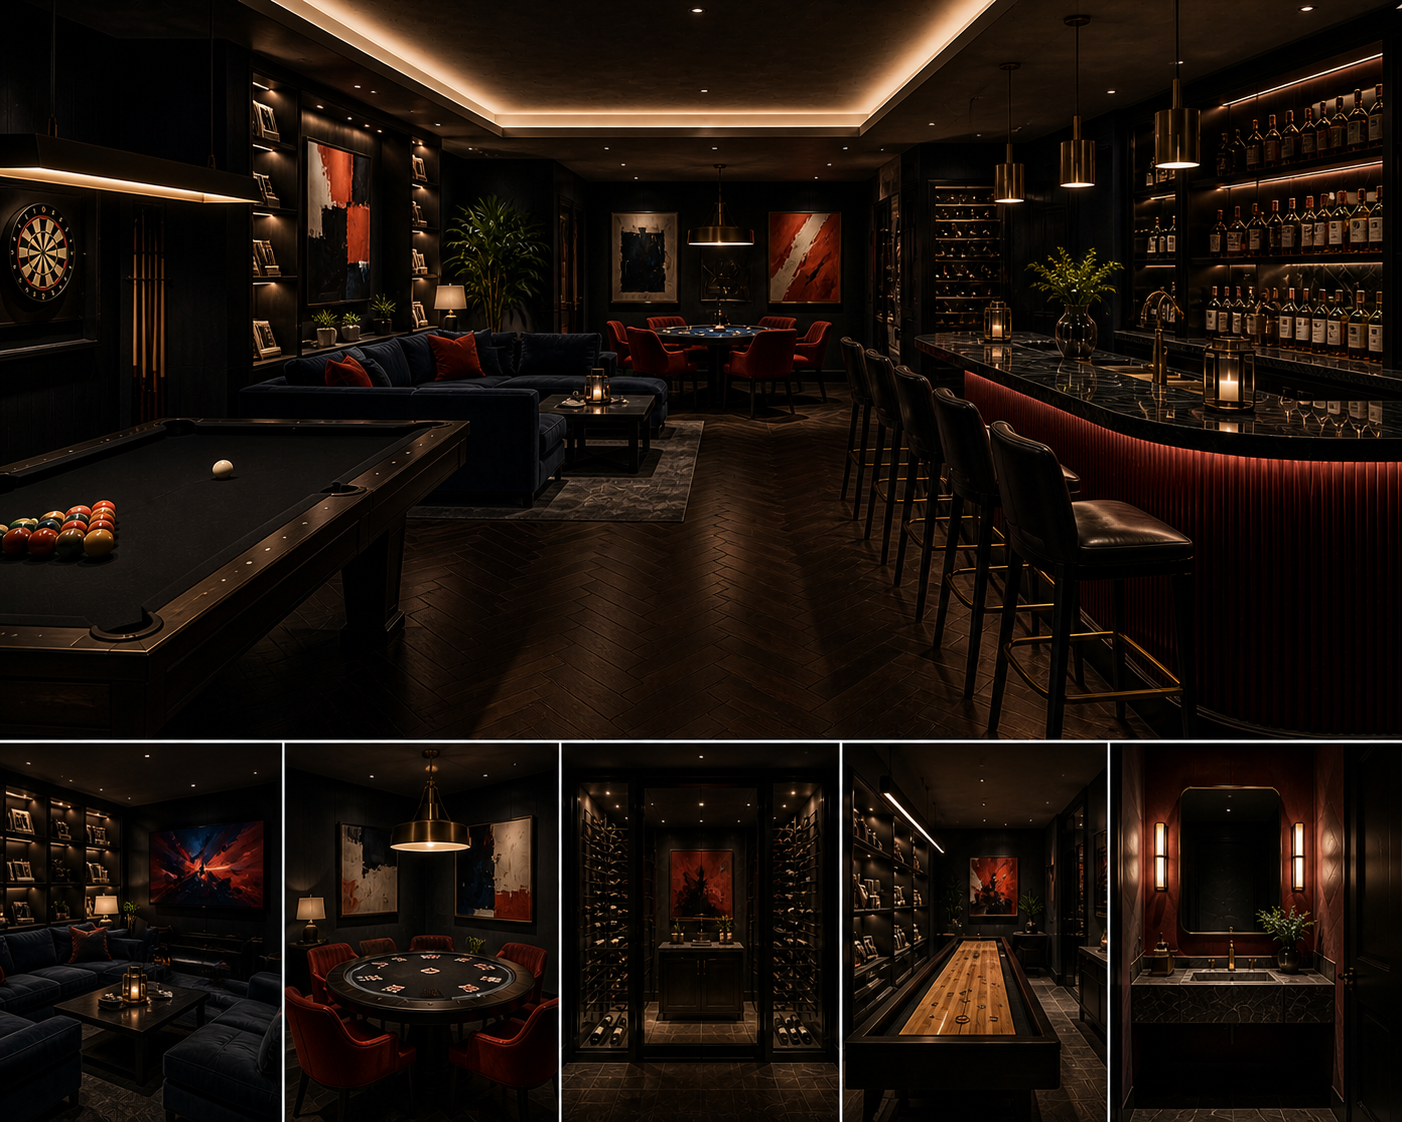
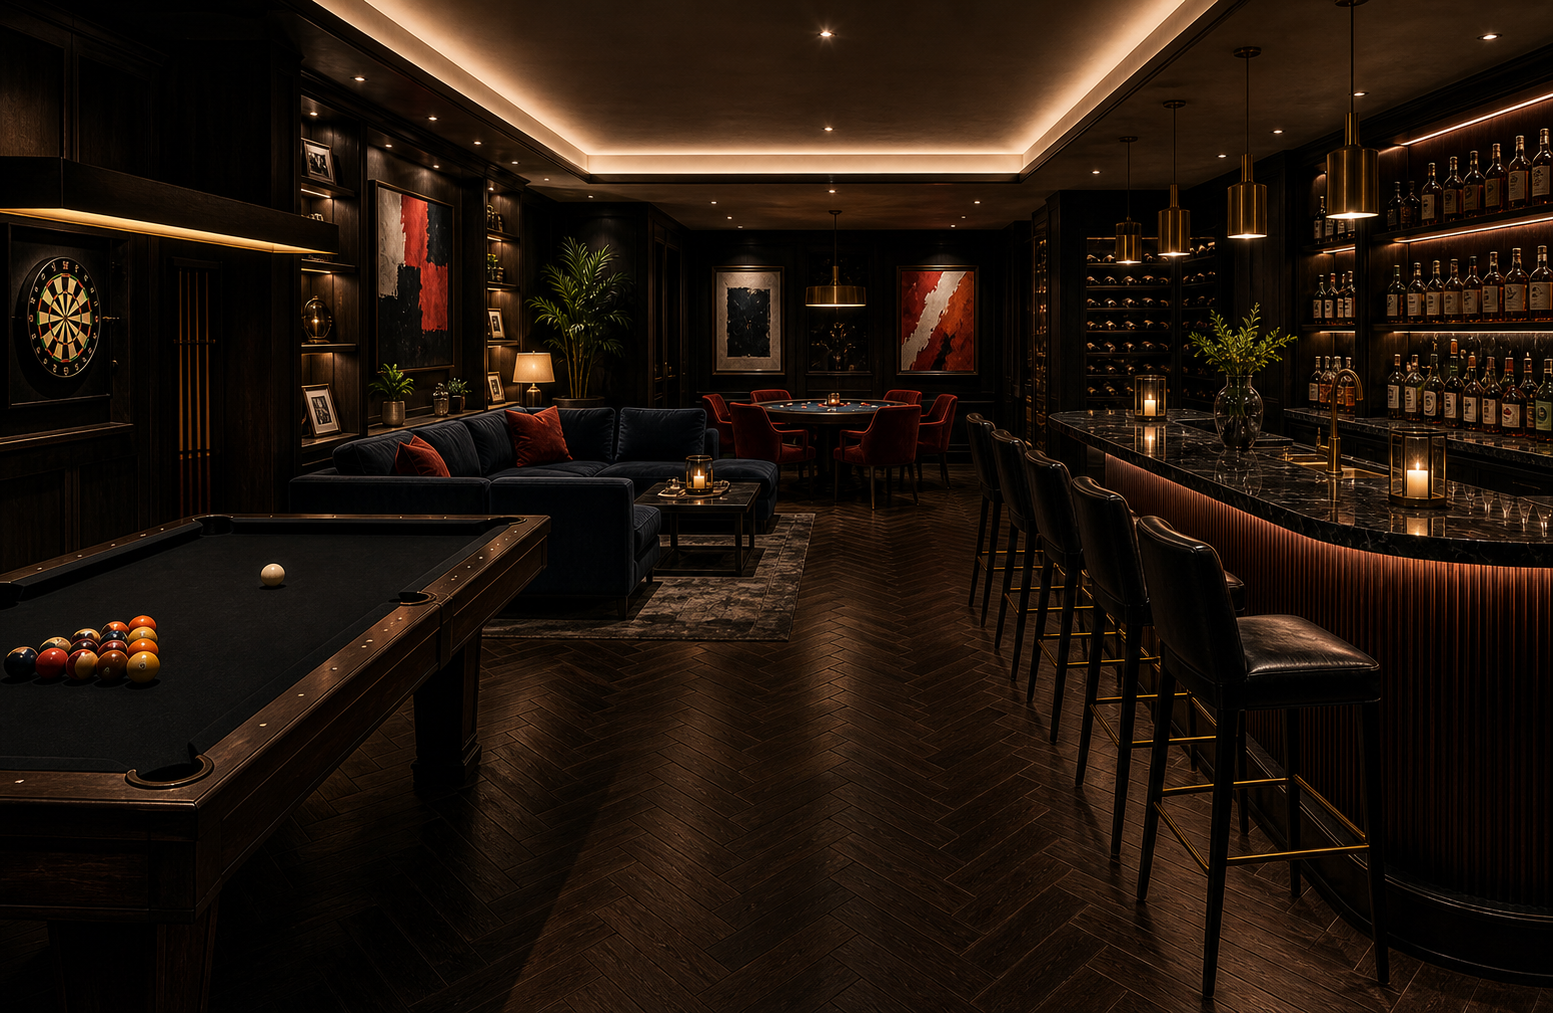
Add Bar Games room gallery

diff --git a/src/app.css b/src/app.css
@@ -299,6 +299,48 @@ button {
   line-height: 1.55;
 }
 
+.room-gallery {
+  position: absolute;
+  left: 26px;
+  right: 26px;
+  bottom: 188px;
+  display: grid;
+  grid-template-columns: repeat(3, minmax(0, 1fr));
+  gap: 8px;
+  max-width: 540px;
+}
+
+.room-gallery button {
+  min-width: 0;
+  padding: 5px;
+  border-radius: 8px;
+  border: 1px solid rgba(255, 255, 255, 0.16);
+  background: rgba(18, 14, 11, 0.62);
+  color: #fff8ee;
+  text-align: left;
+  backdrop-filter: blur(12px);
+}
+
+.room-gallery button.active {
+  border-color: #d7bc82;
+  background: rgba(18, 14, 11, 0.82);
+}
+
+.room-gallery img {
+  width: 100%;
+  aspect-ratio: 16 / 10;
+  object-fit: cover;
+  display: block;
+  border-radius: 5px;
+}
+
+.room-gallery span {
+  display: block;
+  padding: 6px 4px 2px;
+  font-size: 12px;
+  font-weight: 700;
+}
+
 .context-panel {
   display: grid;
   gap: 14px;
@@ -973,6 +1015,13 @@ button {
     right: 12px;
     bottom: 12px;
     padding: 16px;
+  }
+
+  .room-gallery {
+    left: 12px;
+    right: 12px;
+    bottom: 176px;
+    max-width: none;
   }
 
   .movement-grid,

diff --git a/src/App.jsx b/src/App.jsx
@@ -17,7 +17,7 @@ import {
   UsersRound,
   X
 } from "lucide-react";
-import { HOUSE_DATA, FLOOR_PLAN_SHAPES } from "../data.js";
+import { HOUSE_DATA, FLOOR_PLAN_SHAPES, ROOM_GALLERIES } from "../data.js";
 
 const tabs = [
   ["explore", "Explore", Home],
@@ -178,17 +178,39 @@ function App() {
 
 function ExploreView({ floor, room, roomOps, connections, mode, openRoom, openImage }) {
   const [id, name, description, image] = room;
+  const gallery = ROOM_GALLERIES[`${floor.id}:${id}`] || [{ label: "Room view", src: image }];
+  const [activeImage, setActiveImage] = useState(gallery[0]);
+
+  useEffect(() => {
+    setActiveImage(gallery[0]);
+  }, [floor.id, id, gallery[0].src]);
+
   return (
     <section className="explore-grid">
       <div className="room-stage">
-        <button className="room-image-button" type="button" onClick={() => openImage({ src: image, label: name, meta: floor.name, floorId: floor.id, roomId: id })}>
-          <RoomImage src={image} alt={name} />
+        <button className="room-image-button" type="button" onClick={() => openImage({ src: activeImage.src, label: `${name} / ${activeImage.label}`, meta: floor.name, floorId: floor.id, roomId: id })}>
+          <RoomImage src={activeImage.src} alt={`${name} / ${activeImage.label}`} />
         </button>
         <div className="room-copy">
           <p>{floor.name} / {floor.role}</p>
           <h2>{name}</h2>
           <span>{description}</span>
         </div>
+        {gallery.length > 1 && (
+          <div className="room-gallery" aria-label={`${name} image views`}>
+            {gallery.map((item) => (
+              <button
+                key={item.src}
+                type="button"
+                className={item.src === activeImage.src ? "active" : ""}
+                onClick={() => setActiveImage(item)}
+              >
+                <RoomImage src={item.src} alt="" loading="lazy" />
+                <span>{item.label}</span>
+              </button>
+            ))}
+          </div>
+        )}
       </div>
 
       <aside className="context-panel">

diff --git a/data.js b/data.js
@@ -605,4 +605,12 @@ const FLOOR_PLAN_SHAPES = {
   }
 };
 
-export { HOUSE_DATA, FLOOR_PLAN_SHAPES };
+const ROOM_GALLERIES = {
+  "upper-basement:bar-games": [
+    { label: "Room overview", src: roomImage("ub_bar.png") },
+    { label: "Bar counter", src: roomImage("ub_bar-counter.png") },
+    { label: "Games lounge", src: roomImage("ub_bar-games.png") }
+  ]
+};
+
+export { HOUSE_DATA, FLOOR_PLAN_SHAPES, ROOM_GALLERIES };